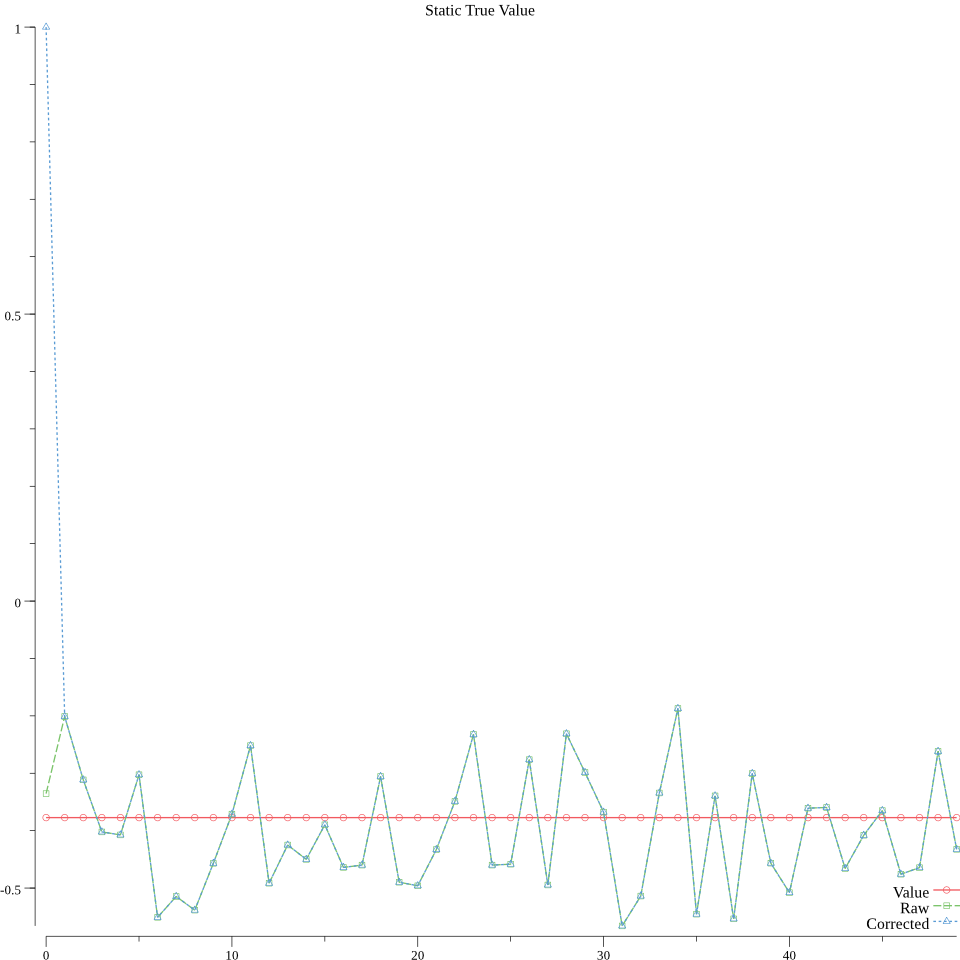
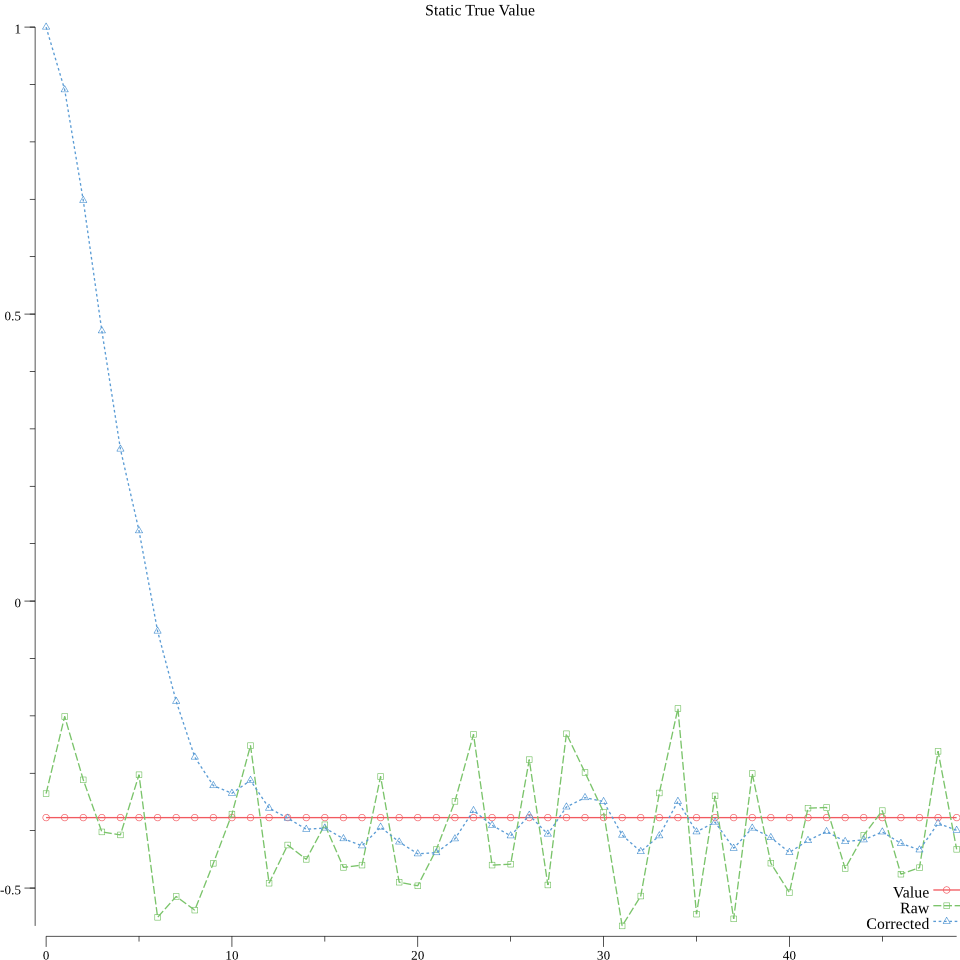
changed Q value

diff --git a/example/static_value/static_example.go b/example/static_value/static_example.go
@@ -20,7 +20,7 @@ func main() {
 		z    = generateRandomData(xVal-.2, xVal+.2, n)
 	)
 
-	k := kalman.New(1e5, math.Pow(0.01, 2), 0, 1)
+	k := kalman.New(1e-5, math.Pow(0.01, 2), 0, 1)
 
 	var raw = []float64{}
 	var vals = []float64{}
